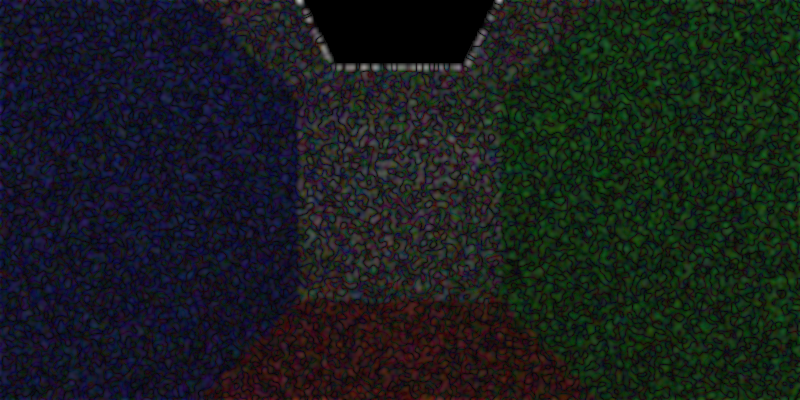
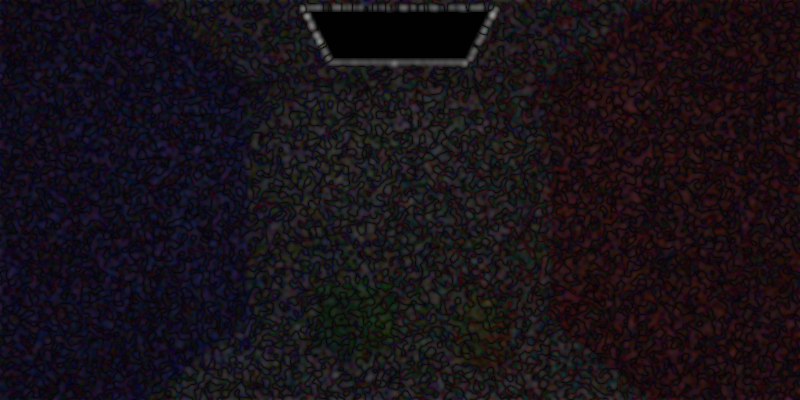
modified: README.mdの修正

diff --git a/README.md b/README.md
@@ -1,7 +1,7 @@
 # Bidirectional Path Tracing Renderer  
 _C++17 / CMake / stb_image_write / OpenMP
 
-![パストレーシングによるレンダリング画像](docs/images/cos_10000.png)
+![パストレーシングによるレンダリング画像](docs/images/bdpt.png)
 
 
 > レイトレーシング → コサイン加重パストレーシング → Next Event Estimation → **双方向パストレーシング (BDPT)**  
@@ -56,16 +56,19 @@ cd build
 cmake ..
 cmake --build .
 
-### レイトレーシングでレンダリング
+### レイキャスティング
+./build/raycasting             # 出力 → results/rc.pfm
+
+### レイトレーシング
 ./build/raytracing             # 出力 → results/rt.pfm
 
-### コサインウェイトサンプリングを用いたパストレーシングでレンダリング
+### コサインウェイトサンプリングを用いたパストレーシング
 ./build/cosweight              # 出力 → results/cos.pfm
 
-### NEEを用いたパストレーシングでレンダリング
+### NEEを用いたパストレーシング
 ./build/NEE                    # 出力 → results/nee.pfm
 
-### BDPTでレンダリング(実装中)
+### BDPT
 ./build/bdpt                   # 出力 → results/bdpt.pfm
 
 ### BDPT でパス長毎にレンダリング
@@ -90,10 +93,12 @@ deactivate                     # 仮想環境終了
 
 | ファイル | 内容 |
 | :-- | :-- |
+| ![rc](docs/images/rc.png) | レイトレーシングの結果 |
 | ![rt](docs/images/rt.png) | レイトレーシングの結果 |
 | ![cos](docs/images/cos.png) | コサインウェイトサンプリングによるパストレーシングの結果 |
 | ![nee](docs/images/nee.png) | NEEを用いたパストレーシングの結果 |
-| ![bdpt](docs/images/bdpt.png) | 双方向パストレーシングの結果 |
+| ![bdpt](docs/images/bpt.png) | 双方向パストレーシング(MISなし) |
+| ![bdpt](docs/images/bdpt.png) | 双方向パストレーシング(MIS = Power heuristic) |
 | ![diff](docs/images/diff.png) | `compare.cpp` による差分ヒートマップ |
 
 ## 検証フロー<a name="検証"></a>
